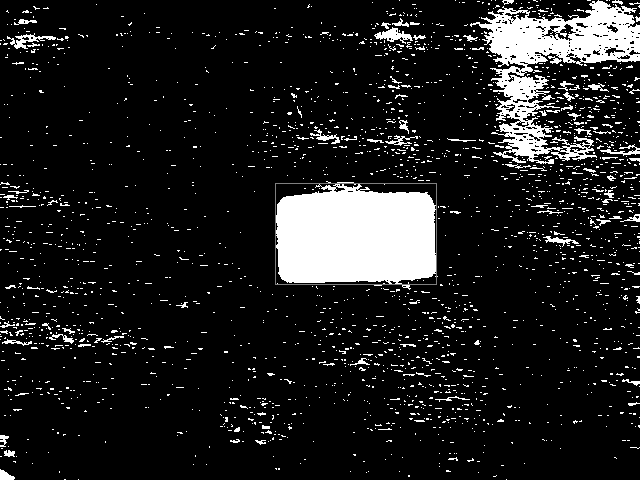
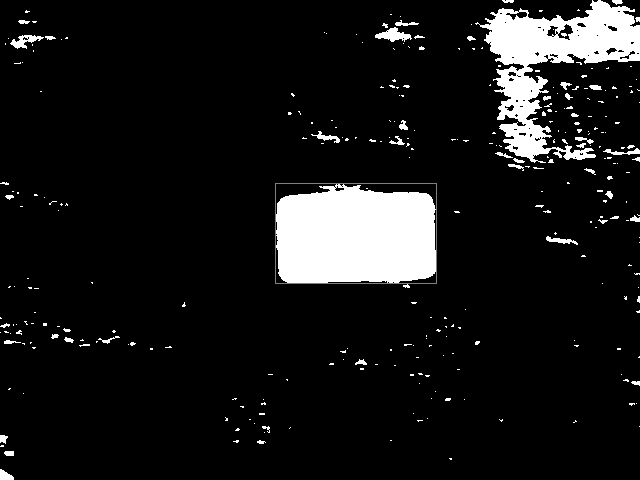
Add coin image test cases.
The new test case contains 3 foreground images: penny, nickel, and 12
stacked pennies. They use the same background image.

The ObjectDetector module was also edited to apply a little bilateral
filtering to the loaded images. This seemed to improve the results.

diff --git a/cs473vision/ObjectDetector.py b/cs473vision/ObjectDetector.py
@@ -26,6 +26,10 @@ class ObjectDetector(object):
             return False
         self.bg_img = cv2.imread(bg_path)
         self.fg_img = cv2.imread(fg_path)
+        #self.bg_img = cv2.medianBlur(self.bg_img, 9)
+        #self.fg_img = cv2.medianBlur(self.fg_img, 9)
+        self.bg_img = cv2.bilateralFilter(self.bg_img, 5, 100, 100)
+        self.fg_img = cv2.bilateralFilter(self.fg_img, 5, 100, 100)
         return True
         
     def create_fg_mask(self, method="simple"):
@@ -52,17 +56,22 @@ class ObjectDetector(object):
     
     def get_object_rectangle(self):
         if self.fg_mask is None:
-            return (0, 0)
+            return (0, 0, 0, 0) 
         fg_mask_copy = self.fg_mask.copy()
         contours, __ = cv2.findContours(fg_mask_copy, cv2.RETR_TREE,
                                         cv2.CHAIN_APPROX_SIMPLE)
         areas = [cv2.contourArea(c) for c in contours]
+        if not areas:
+            return (0, 0, 0, 0)
         return cv2.boundingRect(contours[numpy.argmax(areas)])
     
 def main():
     tests = [("example1/square.jpg", "example1/arm.jpg", "example1/"),
              ("example2/bg.jpg", "example2/fg1.jpg", "example2/fg1_"),
-             ("example2/bg.jpg", "example2/fg2.jpg", "example2/fg2_"), ]
+             ("example2/bg.jpg", "example2/fg2.jpg", "example2/fg2_"), 
+             ("example3/bg.jpg", "example3/fg-nickel.jpg", "example3/fg-nickel_"),
+             ("example3/bg.jpg", "example3/fg-penny.jpg", "example3/fg-penny_"), 
+             ("example3/bg.jpg", "example3/fg-penny12.jpg", "example3/fg-penny12_")]
     obj = ObjectDetector()
     for test_param in tests:
         obj.load_image(test_param[0], test_param[1])
